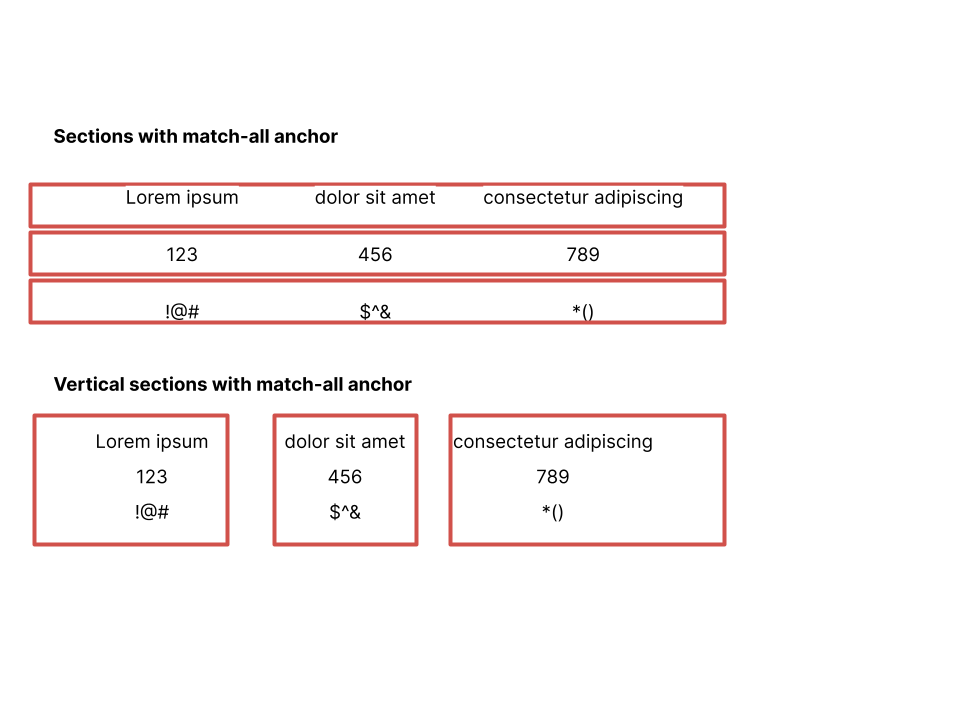
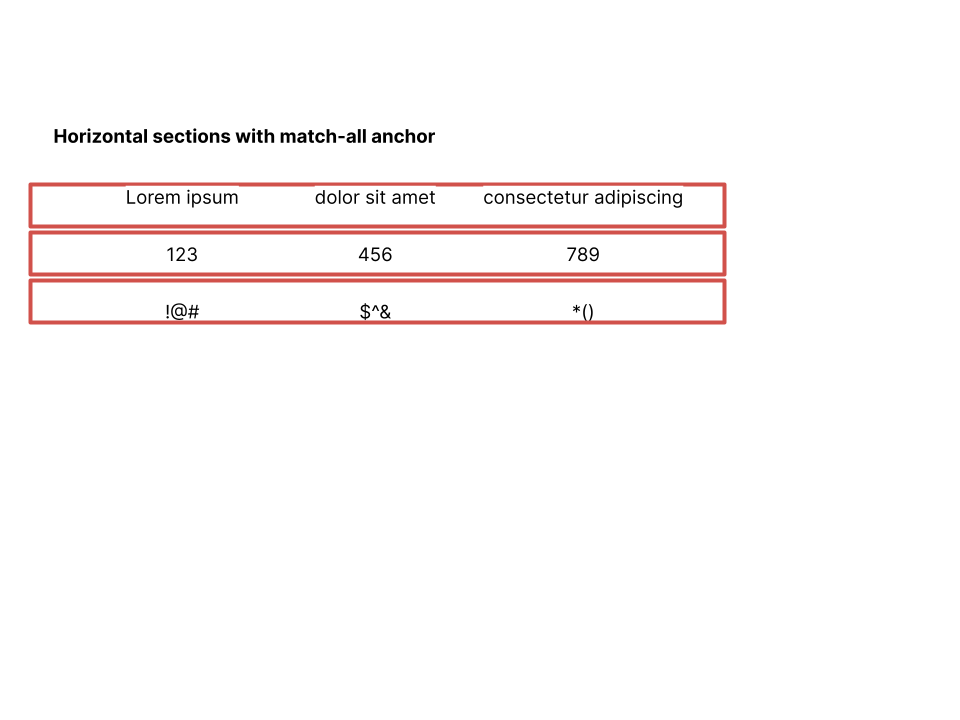
clarity

diff --git a/readme-sync/v0/welcome/3000 - concepts/3600 - section-nuances.md b/readme-sync/v0/welcome/3000 - concepts/3600 - section-nuances.md
@@ -85,20 +85,23 @@ Multiple anchors in section
 You can handle multiple matches for the range's Match parameter inside a section as follows:
 
 - If you want to ignore multiple anchor matches inside the section, use the Require Stop parameter. You don't need to configure this parameter for matches that are on the same horizontal line as the anchor's Match parameter.
-- If you want to create sections out of rows or columns, without matching on specific text in those sections, take the following steps :
+- For horizontal sections, if you want to create sections out of rows, without matching on specific text in those sections, take the following steps :
   - Define a section group with specific text matches for the Start and End parameters of the section group.
   - Specify the anchor's Match parameter using the regular expression `.+`, which matches any characters.
 
-  In this case, Sensible creates sections as follows:
-  
-  - For horizontal sections, Sensible splits text into "rows" at each newline. 
-  - For vertical sections, Sensible splits text into "columns".
+  In this case, Sensible creates sections by splitting text into "rows" at each newline:
   
 
 
 ![Click to enlarge](https://raw.githubusercontent.com/sensible-hq/sensible-docs/main/readme-sync/assets/v0/images/final/sections_match_all_anchors.png)
 
-For an example of using the default behavior shown in the preceding images, see [Table grid example](doc:sections-example-table-grid) and [Zip sections example](doc:sections-example-zip).
+For more information about the behavior shown in the preceding example, see the  [Zip sections example](doc:sections-example-zip).
+
+- For vertical sections, Sensible splits text into "columns" by default. For repeating vertical sections that lack good anchor candidates, use the regular expression `".+"` for the anchor's Match parameter and nest the section group in a parent section group. For more information, see [Table grid example](doc:sections-example-table-grid).
+
+
+
+
 
 
 
